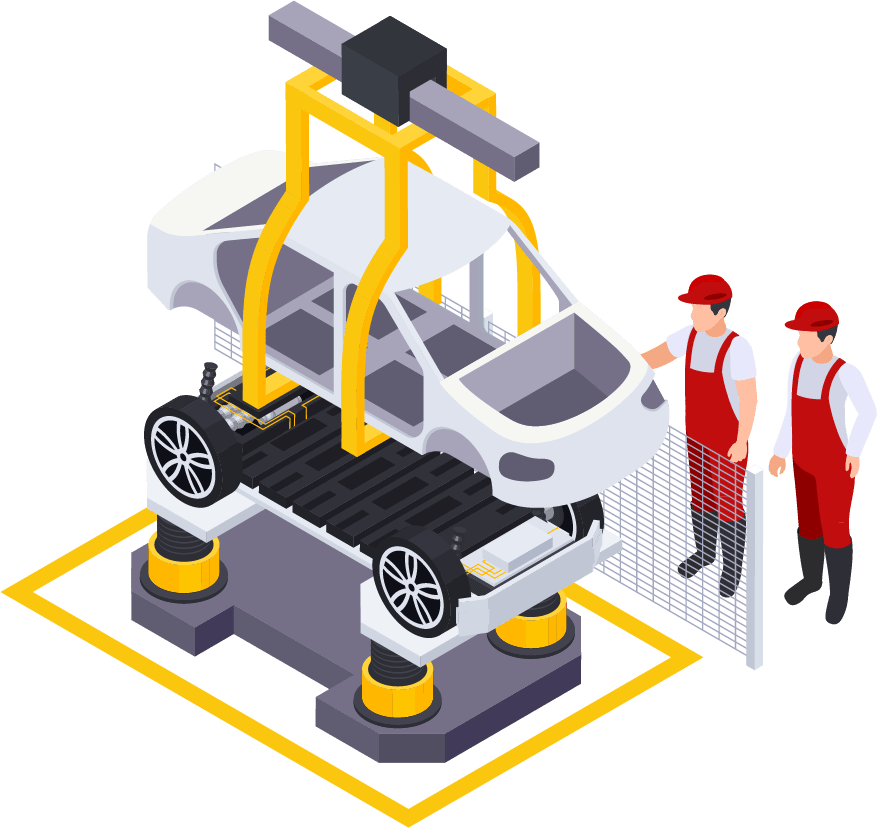
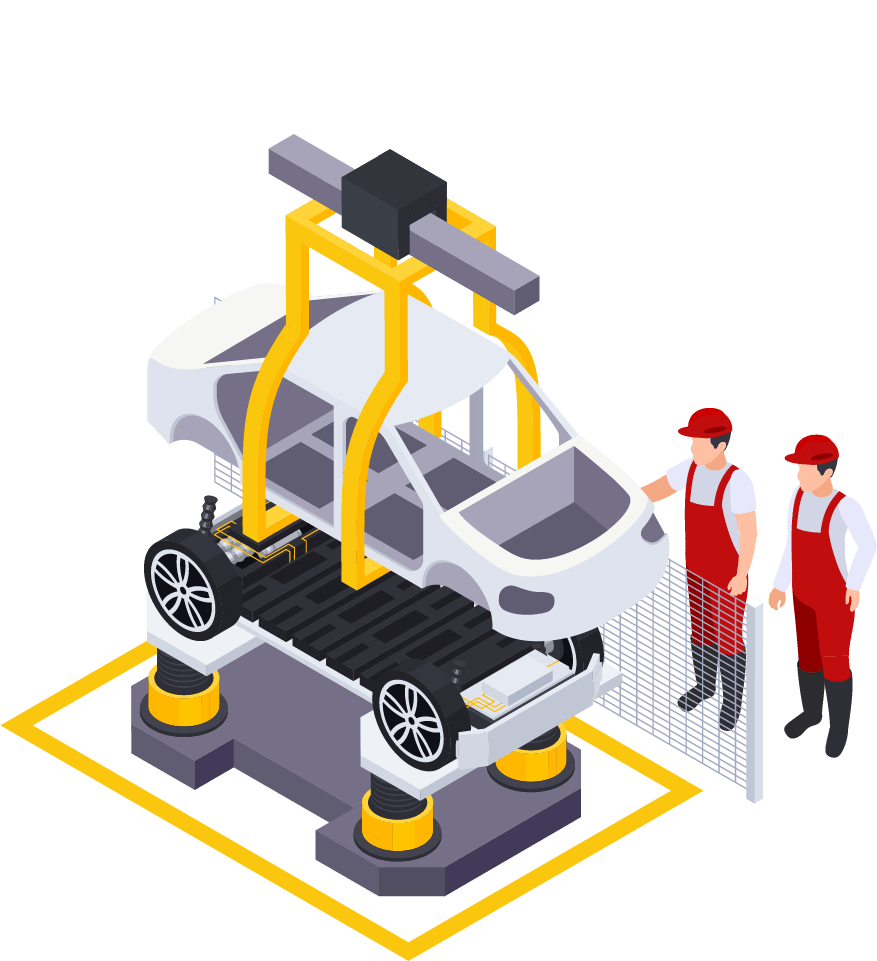
1:15am-13/08/2020

diff --git a/src/app/components/under-construction/under-construction.component.scss b/src/app/components/under-construction/under-construction.component.scss
@@ -17,7 +17,7 @@
 @media only screen and (min-width: 62em) {
     #underConstruction{
         .image-stack{
-            width: 40%;
+            width: 43%;
         }
     }
 }
@@ -26,7 +26,7 @@
 @media only screen and (min-width: 119em) {
     #underConstruction{
         .image-stack{
-            width: 45%;
+            width: 48%;
         }
     }
 }
@@ -45,98 +45,106 @@
     }
 
     .image-stack{
-        display: grid;
-        grid-template-columns: repeat(20, 1fr);
         margin: 0;
         position: absolute;
-        top: 50%;
+        top: 44%;
         left: 50%;
         height: 75%;
         transform: translate(-50%, -50%);
-        transition: all 0.5s;
 
-        .station4{
-            grid-column: 14/21;
-            grid-row: 1;
+        div{
+            position: absolute;
+            top: 0;
+        }
+
+        .station.item4{
+            padding-top: 27%;
+            width: 35%;
             z-index: 3;
-            padding-right: 5%;
-            padding-top: 92%;
+            padding-left: 55%;
+            transition: all 0.6s ease-in-out;
+            
         }
 
-        .station_floor4{
-            grid-column: 13/21;
-            grid-row: 1;
+        .station_floor.item4{
+            width: 38%;
             z-index: 2;
-            padding-top: 90%;
+            padding-top: 46%;
+            padding-left: 54%;
+            transition: all 0.6s ease-in-out;
         }
 
-        .station3{
-            grid-column: 7/14;
-            grid-row: 1;
+        .station.item3{
+            padding-top: 50%;
+            width: 35%;
             z-index: 3;
-            padding-top: 140%;
-            padding-right: 1%;
+            padding-left: 22%;
+            transition: all 0.6s ease-in-out;
         }
 
-        .station_floor3{
-            grid-column: 6/14;
-            grid-row: 1;
+        .station_floor.item3{
+            width: 38%;
             z-index: 2;
-            padding-top: 153%;
+            padding-top: 68%;
+            padding-left: 21%;
+            transition: all 0.6s ease-in-out;
         }
 
         .station_line3{
-            grid-column: 10/16;
-            grid-row: 1;
             z-index: 1;
-            padding-top: 120%;
+            width: 25%;
+            padding-top: 46%;
+            padding-left: 39%;
         }
 
-        .station2{
-            grid-column: 2/8;
-            grid-row: 1;
+        .station.item2{
+            padding-top: 20%;
+            width: 35%;
             z-index: 3;
-            padding-top: 55%;
+            padding-left: 1%;
+            transition: all 0.6s ease-in-out;
         }
 
-        .station_floor2{
-            grid-column: 1/9;
-            grid-row: 1;
+        .station_floor.item2{
+            width: 38%;
             z-index: 2;
-            padding-top: 80%;
+            padding-top: 38%;
+            transition: all 0.6s ease-in-out;
         }
 
         .station_line2{
-            grid-column: 2/9;
-            grid-row: 1;
             z-index: 1;
-            padding-top: 136%;
+            width: 33%;
+            padding-left: 3%;
+            padding-top: 55%;
         }
 
-        .station1{
-            grid-column: 9/15;
-            grid-row: 1;
+        .station.item1{
+            width: 35%;
             z-index: 3;
+            padding-left: 31%;
+            transition: all 0.6s ease-in-out;
         }
 
-        .station_floor1{
-            grid-column: 8/16;
-            grid-row: 1;
+        .station_floor.item1{
+            width: 38%;
             z-index: 2;
-            padding-top: 22%;
+            padding-top: 17%;
+            padding-left: 30%;
+            transition: all 0.6s ease-in-out;
         }
 
         .station_line1{
-            grid-column: 6/15;
-            grid-row: 1;
+            width: 45%;
+            padding-left: 18%;
             z-index: 1;
-            padding-top: 58%;
+            padding-top: 34%;
         }
 
         .construction_text {
-            grid-column: 13/-1;
-            grid-row: 1;
-            padding-top: 167%;
+            padding-top: 74%;
+            padding-left: 55%;
+            width: 40%;
         }
     
     }

diff --git a/src/app/components/under-construction/under-construction.component.html b/src/app/components/under-construction/under-construction.component.html
@@ -1,18 +1,18 @@
 <div id="underConstruction">
     <div class="image-stack">
-        <div [@fadeInOut]="displayStation4" *ngIf="displayStation4" class="station4">
+        <div [@fadeInOut]="displayStation4" *ngIf="displayStation4" [className]="'station '+station4">
             <img src="assets/images/station4.png">
         </div>
 
-         <div class="station_floor4">
+         <div [className]="'station_floor '+station4">
             <img [@scaleInOut]="displayFloor4" *ngIf="displayFloor4" src="assets/images/station_floor.png">
         </div>
 
-        <div [@fadeInOut]="displayStation3" *ngIf="displayStation3" class="station3">
+        <div [@fadeInOut]="displayStation3" *ngIf="displayStation3" [className]="'station '+station3">
             <img src="assets/images/station3.png">
         </div>
 
-         <div class="station_floor3">
+         <div [className]="'station_floor '+station3">
             <img [@scaleInOut]="displayFloor3" *ngIf="displayFloor3" src="assets/images/station_floor.png">
         </div>
 
@@ -20,11 +20,11 @@
             <img src="assets/images/station_line3.png">
         </div>
 
-        <div [@fadeInOut]="displayStation2" *ngIf="displayStation2" class="station2">
+        <div [@fadeInOut]="displayStation2" *ngIf="displayStation2" [className]="'station '+station2">
             <img src="assets/images/station2.png">
         </div>
 
-         <div class="station_floor2">
+         <div [className]="'station_floor '+station2">
             <img [@scaleInOut]="displayFloor2" *ngIf="displayFloor2" src="assets/images/station_floor.png">
         </div>
 
@@ -32,15 +32,15 @@
             <img src="assets/images/station_line2.png">
         </div>
 
-        <div [@fadeInOut]="displayStation1" *ngIf="displayStation1" class="station1">
+        <div [@fadeInOut]="displayStation1" *ngIf="displayStation1" [className]="'station '+station1">
             <img src="assets/images/station1.png">
         </div>
 
-        <div class="station_floor1">
+        <div [className]="'station_floor '+station1">
             <img [@scaleInOut]="displayFloor1" *ngIf="displayFloor1" src="assets/images/station_floor.png">
         </div>
 
-        <div [@fadeInOut]="displayLine1" *ngIf="displayLine1" class="station_line1" [class.one] ="station == 1">
+        <div [@fadeInOut]="displayLine1" *ngIf="displayLine1" class="station_line1">
             <img src="assets/images/station_line1.png">
         </div>
 

diff --git a/src/app/components/under-construction/under-construction.component.ts b/src/app/components/under-construction/under-construction.component.ts
@@ -23,12 +23,16 @@ export class UnderConstructionComponent implements OnInit {
   displayStation2:boolean;
   displayStation3:boolean;
   displayStation4:boolean;
-  station:number = 1;
+  station1:string = 'item1';
+  station2:string = 'item2';
+  station3:string = 'item3';
+  station4:string = 'item4';
+  counter = [1,2,3,4];
 
   constructor() { }
 
   ngOnInit(): void {
-    //Animation sequence
+    //Initial animation sequence
     this.displayFloor1 = true;
     setTimeout(() => { this.displayStation1 = true; }, 500);
     setTimeout(() => { this.displayFloor2 = true; }, 700);
@@ -41,6 +45,18 @@ export class UnderConstructionComponent implements OnInit {
     setTimeout(() => { this.displayLine3 = true; }, 3400);
     setTimeout(() => { this.displayStation4 = true; }, 3900);
     setTimeout(() => { this.displayText = true; }, 4200);
-  }
 
+    //Afterload animation
+    setTimeout(() => { 
+      setInterval(() => {
+        this.counter.push(this.counter.shift());
+        this.displayText = false; this.displayLine1 = false; this.displayLine2 = false; this.displayLine3 = false;
+        setTimeout(() => { this.station1 = 'item'+this.counter[0]; this.station2 = 'item'+this.counter[1]; this.station3 = 'item'+this.counter[2]; this.station4 = 'item'+this.counter[3]; }, 400);
+        setTimeout(() => { this.displayLine1 = true; }, 800); 
+        setTimeout(() => { this.displayLine2 = true; }, 1200); 
+        setTimeout(() => { this.displayLine3 = true; }, 1600); 
+        setTimeout(() => { this.displayText = true; }, 2000); 
+      }, 5000);
+    }, 5200);
+  }
 }

diff --git a/src/app/animations.ts b/src/app/animations.ts
@@ -20,7 +20,7 @@ export const multipleAnimations = {
                 style({}),
                 animate(1, style({}))
             ])
-            ]),
+            ])
         ]),
         transition('Vehiculos => Main, Main => Taller, Taller => Repuestos, Repuestos => Vehiculos, Taller => Vehiculos', [
             query(':enter, :leave', style({ position: 'absolute', width:'100%',height:'100%' })),
@@ -39,7 +39,26 @@ export const multipleAnimations = {
                 style({}),
                 animate(1, style({}))
             ])
+            ])
+        ]),
+        transition('Repuestos <=> Main', [
+            query(':enter, :leave', style({ position: 'absolute', width:'100%', height:'100%', paddingBottom: '{{paddingBottomSize}}%' })),
+            query(':enter', style({ opacity: 0 })),
+            
+            group([
+            query(':leave', [
+                style({ opacity: 1 }),
+                animate('1s ease-in-out', style({opacity: 0}))
             ]),
+            query(':enter', [
+                animate('1s ease-in-out', style({opacity: 1})),
+                animateChild()
+            ]),
+            query(':leave *', [
+                style({}),
+                animate(1, style({}))
+            ])
+            ])
         ])
     ]),
 

diff --git a/src/app/components/sections/parts/parts.component.ts b/src/app/components/sections/parts/parts.component.ts
@@ -1,4 +1,6 @@
 import { Component, OnInit } from '@angular/core';
+import { DataService } from 'src/app/services/pass-data.service';
+import { Router } from '@angular/router';
 
 @Component({
   selector: 'app-parts',
@@ -7,7 +9,15 @@ import { Component, OnInit } from '@angular/core';
 })
 export class PartsComponent implements OnInit {
 
-  constructor() { }
+  constructor(private data: DataService, private router: Router) { 
+
+    //Await animation sequence
+    this.data.goToMainStatusCurrentData.subscribe(data3 => {
+      if(data3){
+        setTimeout(() => { this.router.navigateByUrl('/'); }, 2800);
+      }
+    });
+  }
 
   ngOnInit(): void {
   }

diff --git a/src/app/app.component.scss b/src/app/app.component.scss
@@ -1,5 +1,5 @@
 .origin{
     width: 100%;
     height: 100%;
-    background: black;
+    background: #EFEFEF;
 }
